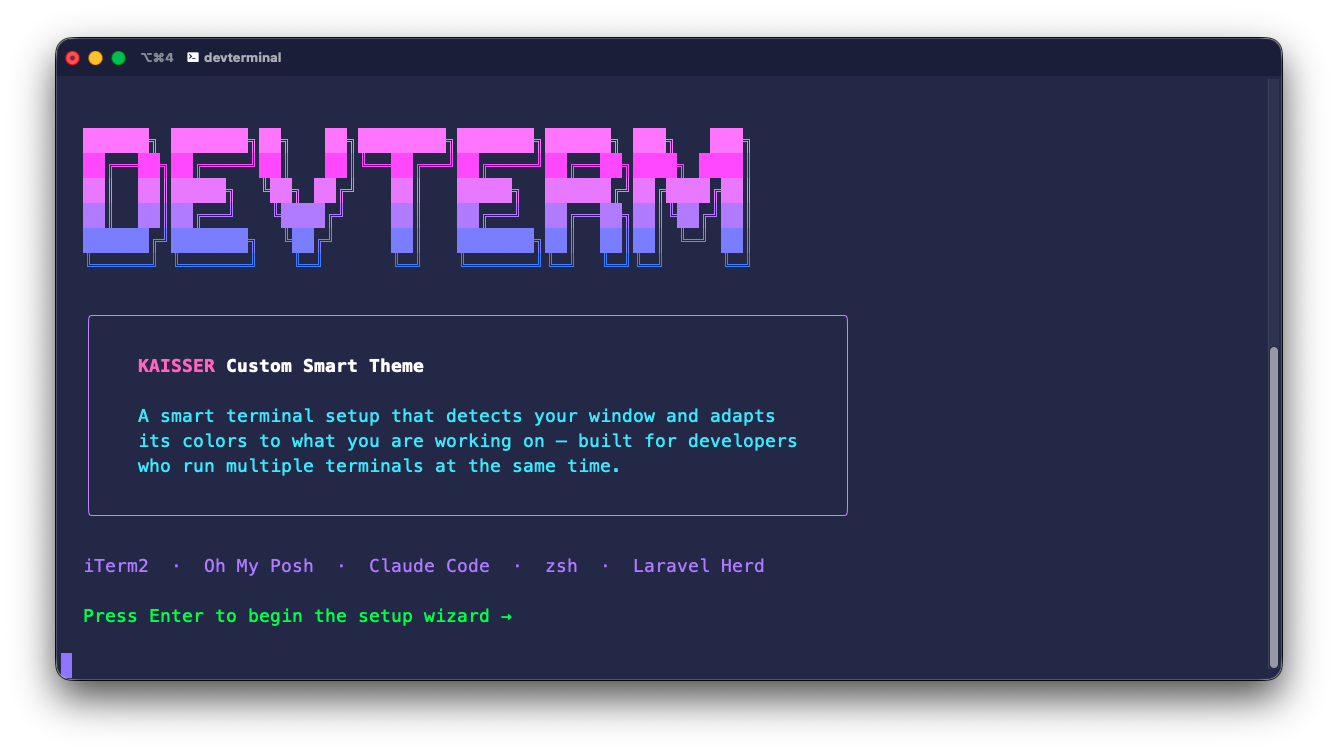
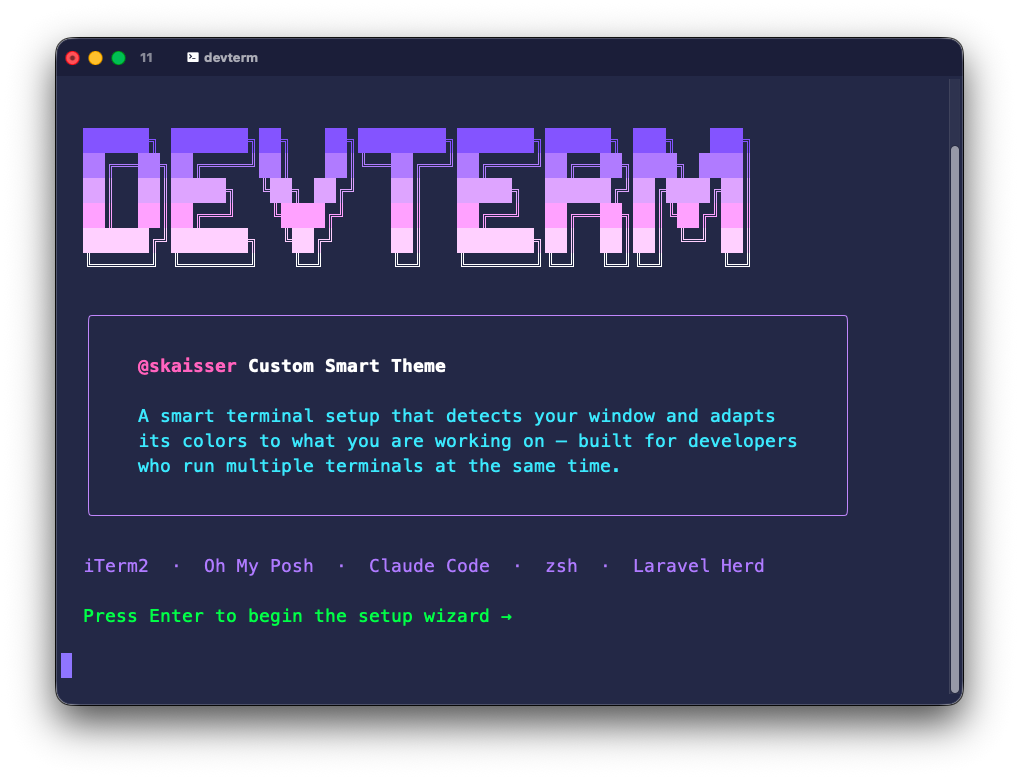
DevTerm 1.1 — emoji wizard, @skaisser branding, asset renames

diff --git a/README.md b/README.md
@@ -1,4 +1,4 @@
-# Devterm
+# DEVTERM - ONE LINE DEV MACHINE SETUP
 
 > **@skaisser style** — one command to set up the perfect developer terminal on macOS
 
@@ -13,19 +13,19 @@ Includes Claude Code with a custom statusline that shows context, git status, an
 
 ## What you get
 
-| Component | Description |
-|---|---|
-| **[iTerm2](https://iterm2.com)** | Best macOS terminal — reliable, fast, scriptable |
-| **[VS Code](https://code.visualstudio.com)** | Best code editor — with `code` CLI command wired in |
-| **@skaisser Custom Smart Theme** | A fully custom dark color palette built from scratch. Smart theme that detects your terminal window and changes its colors based on what you are working on — especially powerful when running multiple terminals at the same time |
-| **Per-window background colors** | Each window gets its own dark accent — navy, green, teal, amber, violet... |
-| **SSH danger mode** | Full red background when you SSH — no more accidental production commands |
-| **[Oh My Posh](https://ohmyposh.dev) + skaisser prompt** | Custom prompt: path → git branch → PHP → Node → Go → Python → time |
-| **[Claude Code](https://github.com/anthropics/claude-code)** | AI coding assistant in your terminal — by Anthropic |
-| **Claude Code statusline** | Context bar · token count · git branch · model name — live in your prompt |
-| **[Nerd Fonts](https://www.nerdfonts.com)** | MesloLGS NF + Fira Code NF — required for icons in the prompt |
-| **zsh plugins** | autosuggestions, syntax highlighting, history search, fzf, eza, z |
-| **[Laravel Herd](https://herd.laravel.com)** | PHP dev environment — serves `project.test` with HTTPS, zero config |
+| Component                                                    | Description                                                                                          |
+| ------------------------------------------------------------ | ---------------------------------------------------------------------------------------------------- |
+| **[iTerm2](https://iterm2.com)**                             | Best macOS terminal — reliable, fast, scriptable                                                     |
+| **[VS Code](https://code.visualstudio.com)**                 | Best code editor — with `code` CLI command wired in                                                  |
+| **@skaisser Custom Smart Theme**                             | A fully custom dark color palette built from scratch. Smart theme that detects your terminal window and changes its colors based on what you are working on — especially powerful when running multiple terminals at the same time |
+| **Per-window background colors**                             | Each window gets its own dark accent — navy, green, teal, amber, violet...                           |
+| **SSH danger mode**                                          | Full red background when you SSH — no more accidental production commands                            |
+| **[Oh My Posh](https://ohmyposh.dev) + skaisser prompt**     | Custom prompt: path → git branch → PHP → Node → Go → Python → time                                   |
+| **[Claude Code](https://github.com/anthropics/claude-code)** | AI coding assistant in your terminal — by Anthropic                                                  |
+| **Claude Code statusline**                                   | Context bar · token count · git branch · model name — live in your prompt                            |
+| **[Nerd Fonts](https://www.nerdfonts.com)**                  | MesloLGS NF + Fira Code NF — required for icons in the prompt                                        |
+| **zsh plugins**                                              | autosuggestions, syntax highlighting, history search, fzf, eza, z                                    |
+| **[Laravel Herd](https://herd.laravel.com)**                 | PHP dev environment — serves `project.test` with HTTPS, zero config                                  |
 
 ## Claude Code statusline
 
@@ -91,16 +91,16 @@ Open 4 terminals and they'll each have a distinct color so you always know which
   </tr>
 </table>
 
-| Window | Background | Accent |
-|---|---|---|
-| 1 | Deep navy `#1e2040` | Blue |
-| 2 | Forest green `#1a2a1a` | Green |
-| 3 | Burgundy `#2a1818` | Red |
-| 4 | Indigo `#1a1a38` | Violet |
-| 5 | Teal `#0f2828` | Teal |
-| 6 | Dark plum `#1a0e2a` | Purple |
-| 7 | Deep violet `#261426` | Purple |
-| 8 | Emerald `#0e2a1a` | Green |
+| Window | Background             | Accent |
+| ------ | ---------------------- | ------ |
+| 1      | Deep navy `#1e2040`    | Blue   |
+| 2      | Forest green `#1a2a1a` | Green  |
+| 3      | Burgundy `#2a1818`     | Red    |
+| 4      | Indigo `#1a1a38`       | Violet |
+| 5      | Teal `#0f2828`         | Teal   |
+| 6      | Dark plum `#1a0e2a`    | Purple |
+| 7      | Deep violet `#261426`  | Purple |
+| 8      | Emerald `#0e2a1a`      | Green  |
 
 ### SSH danger mode
 
@@ -162,90 +162,90 @@ Everything the installed `.zshrc` gives you — no need to memorize, just look i
 
 ### Navigation
 
-| Command | What it does |
-|---|---|
-| `..` | Go up one directory |
-| `..2` `..3` `..4` `..5` | Go up 2–5 levels |
-| `-` | Go back to previous directory |
-| `sites` | Jump to `~/Sites` |
-| `z myapp` | Jump to `myapp` from anywhere *(frecency-based)* |
-| `mkcd mydir` | Create a directory and enter it |
-| `cl` | Clear the terminal |
+| Command                 | What it does                                     |
+| ----------------------- | ------------------------------------------------ |
+| `..`                    | Go up one directory                              |
+| `..2` `..3` `..4` `..5` | Go up 2–5 levels                                 |
+| `-`                     | Go back to previous directory                    |
+| `sites`                 | Jump to `~/Sites`                                |
+| `z myapp`               | Jump to `myapp` from anywhere *(frecency-based)* |
+| `mkcd mydir`            | Create a directory and enter it                  |
+| `cl`                    | Clear the terminal                               |
 
 ### Git
 
-| Command | What it does |
-|---|---|
-| `gst` | `git status` |
-| `gd` | `git diff` |
-| `gds` | `git diff --staged` |
-| `gco branch` | `git checkout branch` |
-| `gcb feature/name` | Create and switch to new branch |
-| `gadd` | `git add -p` — interactively pick which hunks to stage |
-| `gp` | `git pull` |
-| `gpush` | `git push origin` |
-| `glog` | Pretty graph log |
-| `lazygit` | Full interactive git TUI — stage hunks, view diffs, resolve conflicts |
+| Command            | What it does                                                          |
+| ------------------ | --------------------------------------------------------------------- |
+| `gst`              | `git status`                                                          |
+| `gd`               | `git diff`                                                            |
+| `gds`              | `git diff --staged`                                                   |
+| `gco branch`       | `git checkout branch`                                                 |
+| `gcb feature/name` | Create and switch to new branch                                       |
+| `gadd`             | `git add -p` — interactively pick which hunks to stage                |
+| `gp`               | `git pull`                                                            |
+| `gpush`            | `git push origin`                                                     |
+| `glog`             | Pretty graph log                                                      |
+| `lazygit`          | Full interactive git TUI — stage hunks, view diffs, resolve conflicts |
 
 ### File listing
 
-| Command | What it does |
-|---|---|
-| `ls` | Icons + git status in listing |
-| `l` | Long list, all files |
-| `ll` | Long list, all files + permissions |
-| `lt` | Tree view 2 levels deep |
-| `ltree` | Tree view without details |
-| `la` | Full tree view |
-| `dud` | Disk usage, one level deep |
-| `duf` | Disk usage of each item in current directory |
+| Command | What it does                                 |
+| ------- | -------------------------------------------- |
+| `ls`    | Icons + git status in listing                |
+| `l`     | Long list, all files                         |
+| `ll`    | Long list, all files + permissions           |
+| `lt`    | Tree view 2 levels deep                      |
+| `ltree` | Tree view without details                    |
+| `la`    | Full tree view                               |
+| `dud`   | Disk usage, one level deep                   |
+| `duf`   | Disk usage of each item in current directory |
 
 ### PHP / Laravel
 
-| Command | What it does |
-|---|---|
-| `art` | `php artisan` |
-| `pt` | Run Pest tests |
-| `ptp` | Run Pest tests in parallel (10 processes) |
-| `tc` | Run Pest with coverage report |
-| `tcq` | Run Pest with coverage, parallel |
-| `cda` | `composer dump-autoload` |
-| `hfix` | Restart Laravel Herd |
+| Command | What it does                              |
+| ------- | ----------------------------------------- |
+| `art`   | `php artisan`                             |
+| `pt`    | Run Pest tests                            |
+| `ptp`   | Run Pest tests in parallel (10 processes) |
+| `tc`    | Run Pest with coverage report             |
+| `tcq`   | Run Pest with coverage, parallel          |
+| `cda`   | `composer dump-autoload`                  |
+| `hfix`  | Restart Laravel Herd                      |
 
 ### Claude Code
 
-| Command | What it does |
-|---|---|
-| `claude` | Start Claude Code |
+| Command  | What it does                                  |
+| -------- | --------------------------------------------- |
+| `claude` | Start Claude Code                             |
 | `claudd` | Start Claude Code skipping permissions prompt |
 
 ### System
 
-| Command | What it does |
-|---|---|
-| `ports` | Show all listening ports |
-| `psa` | `ps aux` — all running processes |
-| `memusage` | Top memory consumers |
-| `cpuusage` | Top CPU consumers |
-| `killp nginx` | Kill a process by name |
-| `df` | Disk space (human-readable) |
-| `du` | Directory sizes (human-readable) |
+| Command       | What it does                     |
+| ------------- | -------------------------------- |
+| `ports`       | Show all listening ports         |
+| `psa`         | `ps aux` — all running processes |
+| `memusage`    | Top memory consumers             |
+| `cpuusage`    | Top CPU consumers                |
+| `killp nginx` | Kill a process by name           |
+| `df`          | Disk space (human-readable)      |
+| `du`          | Directory sizes (human-readable) |
 
 ### Utilities
 
-| Command | What it does |
-|---|---|
+| Command               | What it does                                        |
+| --------------------- | --------------------------------------------------- |
 | `extract file.tar.gz` | Extract any archive — zip, tar, gz, bz2, rar, 7z... |
-| `weather` | Current weather (default city) |
-| `weather "Paris"` | Weather for a specific city |
+| `weather`             | Current weather (default city)                      |
+| `weather "Paris"`     | Weather for a specific city                         |
 
 ### Fuzzy finder (fzf)
 
-| Shortcut | What it does |
-|---|---|
-| `Ctrl+R` | Search command history interactively |
+| Shortcut | What it does                                |
+| -------- | ------------------------------------------- |
+| `Ctrl+R` | Search command history interactively        |
 | `Ctrl+T` | Fuzzy-search files and paste path at cursor |
-| `Alt+C` | Fuzzy-search directories and cd into one |
+| `Alt+C`  | Fuzzy-search directories and cd into one    |
 
 ### zsh-autosuggestions
 
